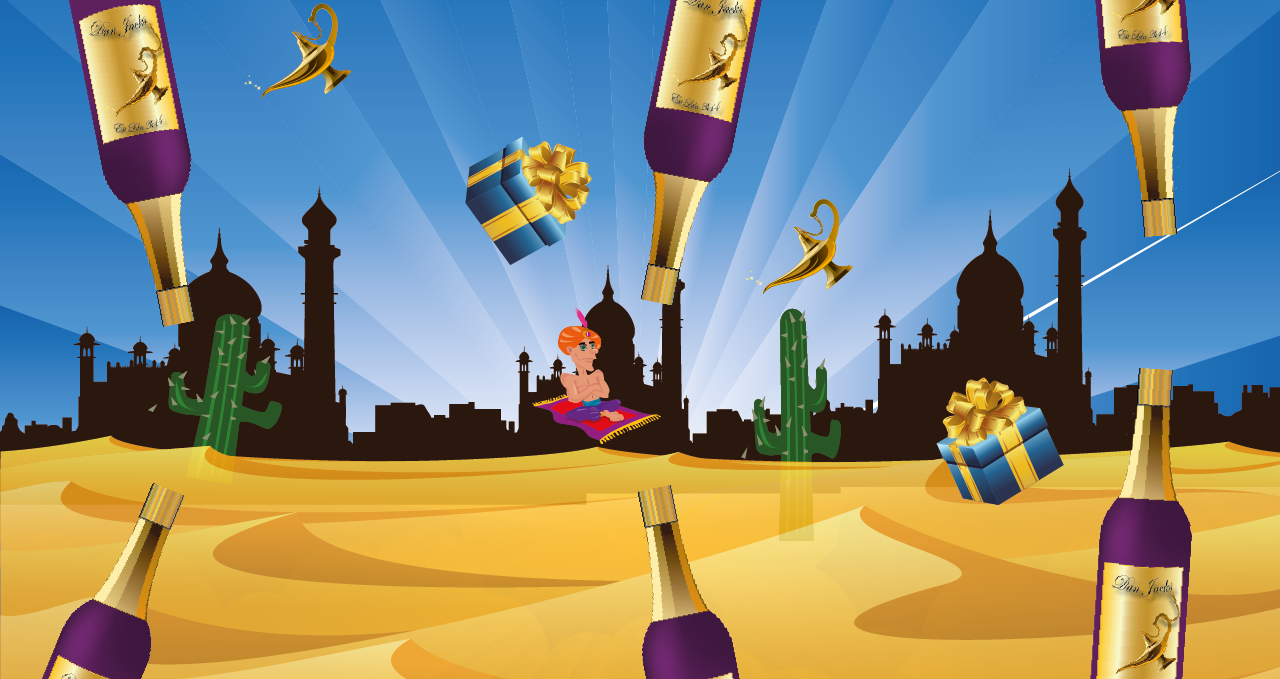
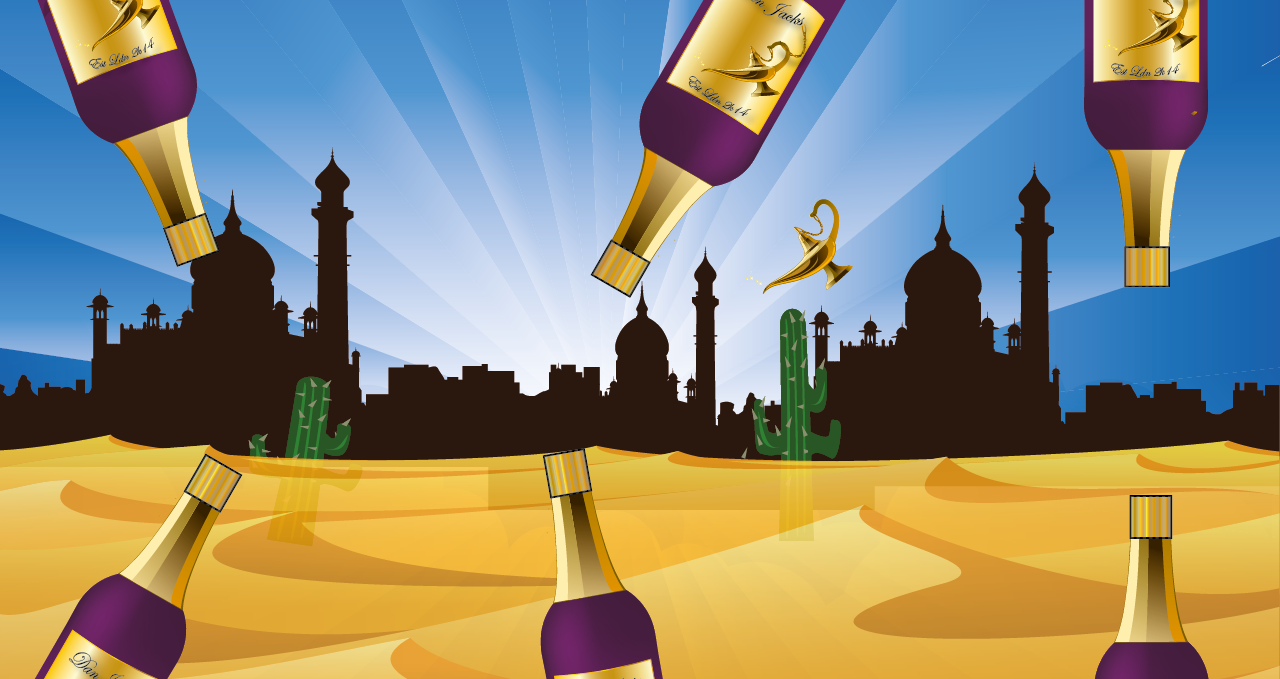
animation

diff --git a/app/assets/stylesheets/main.css.scss b/app/assets/stylesheets/main.css.scss
@@ -2,17 +2,17 @@
 // They will automatically be included in application.css.
 // You can use Sass (SCSS) here: http://sass-lang.com/
 .main-div {
-    margin-left: auto;
-    margin-right: auto;
-    width: 100%;
-    z-index:99999;
-    color:red;
-    position:absolute;
-    margin-left: auto;
-width: 100%;
-text-align: center;
-font-family:"Courier New", Courier, monospace;
-font-size:14px;
+  margin-left: auto;
+  margin-right: auto;
+  width: 100%;
+  z-index:99999;
+  color:red;
+  position:absolute;
+  margin-left: auto;
+  width: 100%;
+  text-align: center;
+  font-family:"Courier New", Courier, monospace;
+  font-size:14px;
 }
 .laddin{
   width:160px;
@@ -36,7 +36,7 @@ body{
 }
 .carousel-inner > .item > img, .carousel-inner > .item > a > img {
   display:inline;
-min-width:100% !important;
+  min-width:100% !important;
   height:auto !important;
 
 }
@@ -55,10 +55,10 @@ h1 {
 /* Fade transition for carousel items */
 .carousel .item {
   left: 0 !important;
-  -webkit-transition: opacity 7s!important;; /*adjust timing here */
+  -webkit-transition: opacity 2s!important;; /*adjust timing here */
   -moz-transition: opacity 0.5s!important;;
   -o-transition: opacity 0.2s!important;;
-  transition: opacity 7s!important;;
+  transition: opacity 2s!important;;
   background-color:rgba(139, 69, 19, 0.3) !important;
 
 }
@@ -78,15 +78,15 @@ h1 {
 }
 img.appstore:active {
   filter: none;
- -webkit-filter: blur(1px);
+  -webkit-filter: blur(1px);
 }
 img.appstore:hover {
   filter: none;
- -webkit-filter: blur(1px);
+  -webkit-filter: blur(1px);
 }
 h1{
   font-size:28px;
-    font-family: "Courier New", Courier, monospace;
+  font-family: "Courier New", Courier, monospace;
 }
 .appstore{
   width:155px;
@@ -105,50 +105,156 @@ h1{
   margin-left:5%;
   width:100%;
   cursor:pointer;
-    -webkit-transition-duration: 4s;
-    -moz-transition-duration: 0.8s;
-    -o-transition-duration: 0.8s;
-    transition-duration: 0.8s;
-
+  -webkit-transition-duration: 4s;
+  -moz-transition-duration: 0.8s;
+  -o-transition-duration: 0.8s;
+  transition-duration: 0.8s;
 }
 .logo:hover{
   -webkit-transform:rotate(5deg);
-    -moz-transform:rotate(5deg);
-    -o-transform:rotate(5deg);
-
+  -moz-transform:rotate(5deg);
+  -o-transform:rotate(5deg);
 }
 .social {
   width:100%;
 }
 .social img {
   width:60px;
-cursor:pointer;
-opacity: 1;
+  cursor:pointer;
+  opacity: 1;
 
+}
+.anim{
+  z-index:9999;
+  position:absolute;
 }
 .social img:hover {
   opacity: .8;
 
 }
-@media screen and (min-width : 760px){
-.logo {
-  margin-left:5%;
-  width:60%;
+@-webkit-keyframes laddin-x {
+  0% {
+    left:-10%;
+    -webkit-animation-timing-function:linear;
+  }
+  80% {
+    left:110%;
+    -webkit-animation-timing-function:linear;
+  }
+  100% {
+    left:110%;
+    -webkit-animation-timing-function:linear;
+  }
 }
+@-webkit-keyframes high {
+  0% {
+    top:30%;
+  }
+  20% {
+    top:35%;
+  }
+  40% {
+    top:50%;
+  }
+  60% {
+    top:45%;
+  }
+  80% {
+    top:50%;
+  }
+  100% {
+    top:50%;
+  }
+}
+@-webkit-keyframes shroom {
+  0% {
+    top:30%;
+  }
+  20% {
+    top:35%;
+  }
+  40% {
+    top:40%;
+  }
+  60% {
+    top:30%;
+  }
+  70% {
+    top:28%;
+  }
+  80% {
+    top:25%;
+  }
+  100% {
+    top:25%;
+  }
+}
+@-webkit-keyframes drink {
+  0% {
+    top:40%;
+  }
+  20% {
+    top:45%;
+  }
+  40% {
+    top:45%;
+  }
+  60% {
+    top:40%;
+  }
+  70% {
+    top:45%;
+  }
+  80% {
+    top:40%;
+  }
+  100% {
+    top:40%;
+  }
+}
+#laddin {
+  position:absolute;
+  z-index:1000;
+  display:none;
+  background-image:url('laddinwebsite.png');
+  width:120px;
+  height:140px;
+
+}
+#laddin.ready {
+  -webkit-animation-duration:8s;
+  -webkit-animation-iteration-count:infinite;
+  display:block;
+}
+#laddin.ready.levelShroom {
+  -webkit-animation-name:shroom,laddin-x;
+}
+#laddin.ready.levelHigh {
+  -webkit-animation-name:high,laddin-x;
+}
+#laddin.ready.levelDrink {
+  -webkit-animation-name:drink,laddin-x;
+}
+
+@media screen and (min-width : 760px){
+  .logo {
+    margin-left:5%;
+    width:60%;
+  }
 }
 
 @media screen and (max-width : 1100px){
   .carousel-inner > .item > img, .carousel-inner > .item > a > img{
 
-  width:auto;
+    width:auto;
     height: auto;
-  max-width: 100%;
-  background-size: auto auto; /* Fill width, retain proportions */
+    max-width: 100%;
+    background-size: auto auto; /* Fill width, retain proportions */
 
-}
-.laddin{
-  width:160px;
-}
+  }
+  .laddin{
+    width:160px;
+  }
 
 }
 @media screen and (max-width : 460px){
